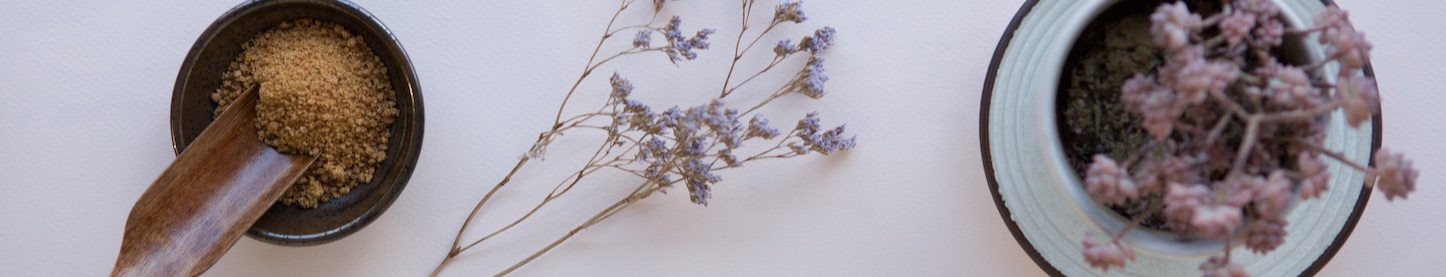
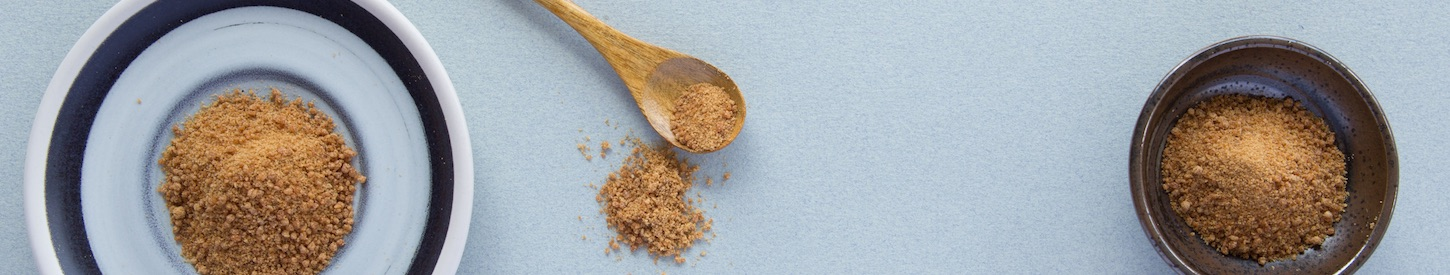
Replace pictures and erase the ones not being used

diff --git a/app/assets/stylesheets/bootstraptheme.scss b/app/assets/stylesheets/bootstraptheme.scss
@@ -289,7 +289,7 @@ footer {
 }
 
 #back-usos {
-  background-image: image-url("banner_encuentranos.jpeg");
+  background-image: image-url("banner_usos.jpeg");
 }
 
 #back-encuentranos {
@@ -297,7 +297,7 @@ footer {
 }
 
 #back-nosotros {
-  background-image: image-url("banner_encuentranos.jpeg");  
+  background-image: image-url("banner_nosotros.jpeg");  
 }
 
 ul.ideas {
